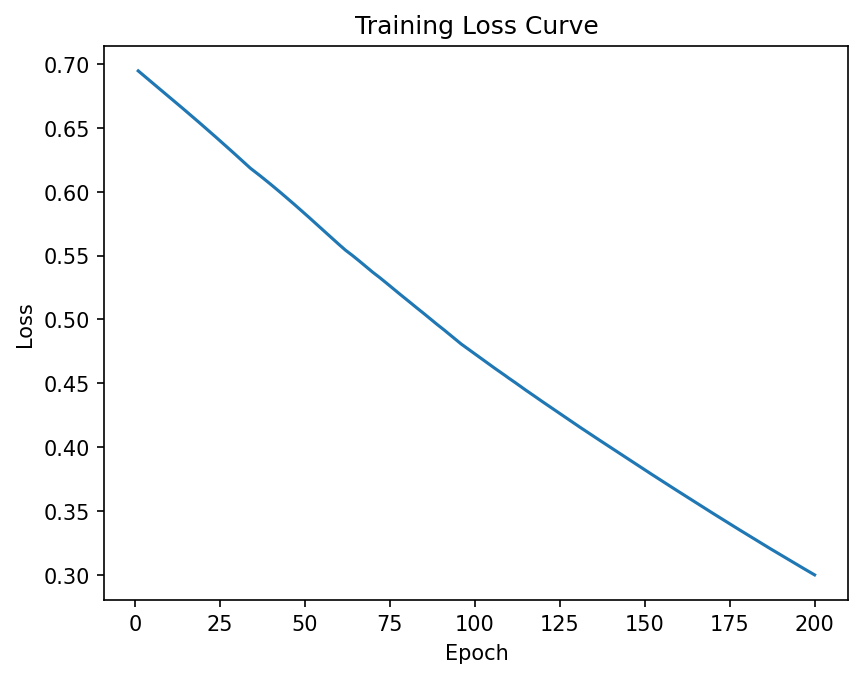
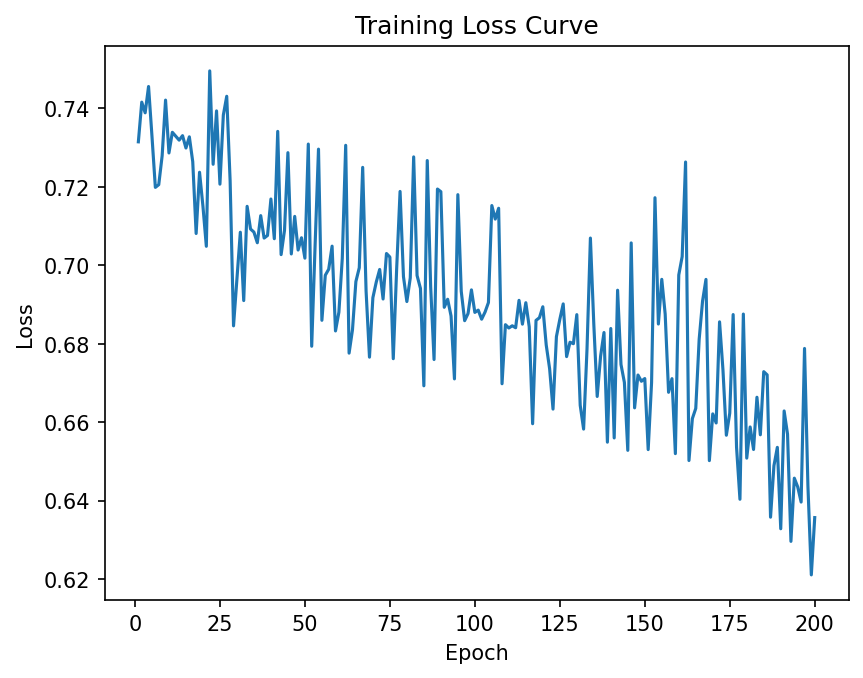
完善这段代码

diff --git a/week04/main.py b/week04/main.py
@@ -39,11 +39,13 @@ test_loader = DataLoader(dataset, batch_size=2, shuffle = False)
 input_dim = len(dataset.vocab)
 hidden_dim = 8
 output_dim = 2
+dropout = 0.2
 
 model = SentimentMLP(
     input_dim = input_dim, 
     hidden_dim= hidden_dim, 
-    output_dim= output_dim
+    output_dim= output_dim,
+    dropout = dropout
 )
 
 
@@ -54,6 +56,7 @@ epoch_loss_sum = 0.0
 loss_history = []
 accuracy_history = []
 num_epochs = 200
+best_train_loss = float("inf")
 
 for epoch in range(num_epochs):
     model.train()
@@ -99,21 +102,35 @@ for epoch in range(num_epochs):
             f"Loss: {average_loss:.4f}, "
             f"Accuracy: {epoch_accuracy:.4f}"
         )
+
+    if average_loss < best_train_loss:
+        best_train_loss = average_loss
+
+        checkpoint = {
+            "epoch": epoch + 1,
+            "model_state_dict": model.state_dict(),
+            "optimizer_state_dict": optimizer.state_dict(),
+            "vocab": dataset.vocab,
+            "input_dim": input_dim,
+            "hidden_dim": hidden_dim,
+            "output_dim": output_dim,
+            "best_train_loss": best_train_loss,
+            "loss_history": loss_history.copy(),
+            "accuracy_history": accuracy_history.copy(),
+        }
+
+        torch.save(checkpoint, "best_checkpoint.pth")
+
 test_accuracy = evaluate(model, test_loader)
 
 print(f"测试机 Accuracy:{ test_accuracy:.4f}")
 
+
 plt.figure()
-
-plt.plot(
-    range(1, num_epochs + 1),
-    loss_history,
-)
-
+plt.plot(range(1, num_epochs + 1),loss_history)
 plt.xlabel("Epoch")
 plt.ylabel("Loss")
 plt.title("Training Loss Curve")
-
 plt.savefig(
     "loss_curve.png",
     dpi =  150,
@@ -122,25 +139,4 @@ plt.savefig(
 
 plt.close()
 
-checkpoint = {
-    "model_state_dict": model.state_dict(),
-    "optimizer_state_dict": optimizer.state_dict(),
-    "vocab": dataset.vocab,
-    "input_dim": input_dim,
-    "hidden_dim": hidden_dim,
-    "output_dim": output_dim,
-    "num_epochs": num_epochs,
-    "loss_history": loss_history,
-    "accuracy_history": accuracy_history,
-    "test_accuracy": test_accuracy,
-}
-
-torch.save(
-    checkpoint,
-    "checkpoint.pth",
-)
-
 print("模型已保存到 checkpoint.pth")
-
-if __name__ == "__main__":
-    main()

diff --git a/week04/src/model.py b/week04/src/model.py
@@ -5,18 +5,20 @@ from torch import nn
 
 class SentimentMLP(nn.Module):
 
-    def __init__(self, input_dim: int, hidden_dim: int, output_dim: int):
+    def __init__(self, input_dim: int, hidden_dim: int, output_dim: int,dropout: float):
         # 定义网络层
         super().__init__()
 
         self.fc1 = nn.Linear(input_dim, hidden_dim)
         self.relu = nn.ReLU()
+        self.droput = nn.Dropout(dropout)
         self.fc2 = nn.Linear(hidden_dim, output_dim)
 
     def forward(self, x: torch.Tensor) -> torch.Tensor:
         # 定义前向传播的路径
         x = self.fc1(x)
         x = self.relu(x)
+        x = self.droput(x)
         x = self.fc2(x)
 
         return x
